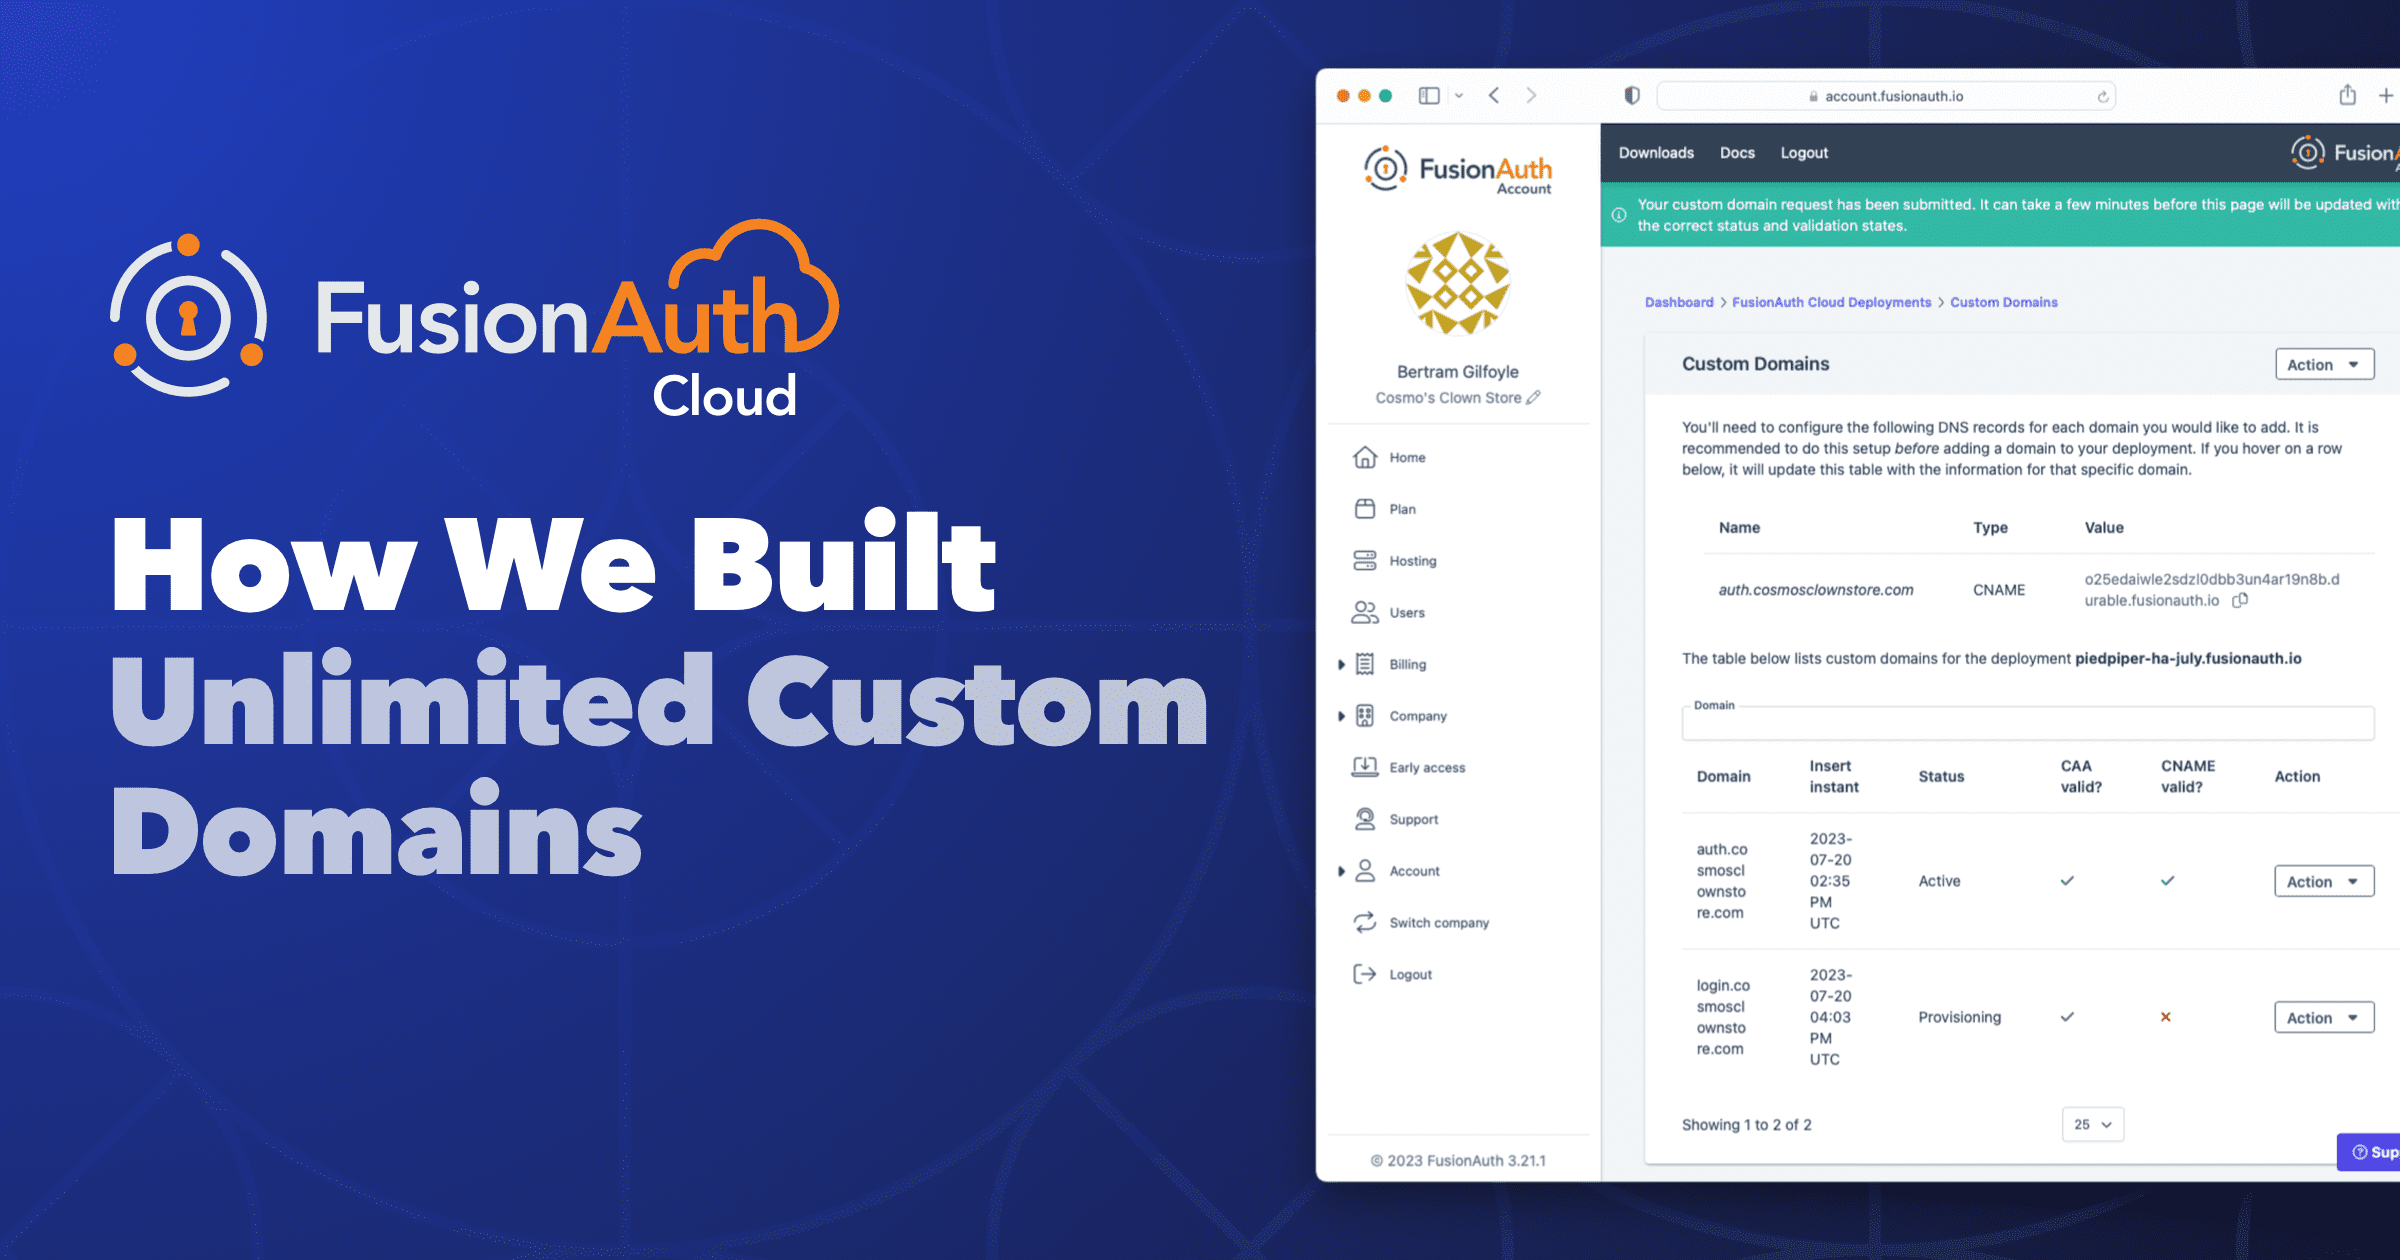
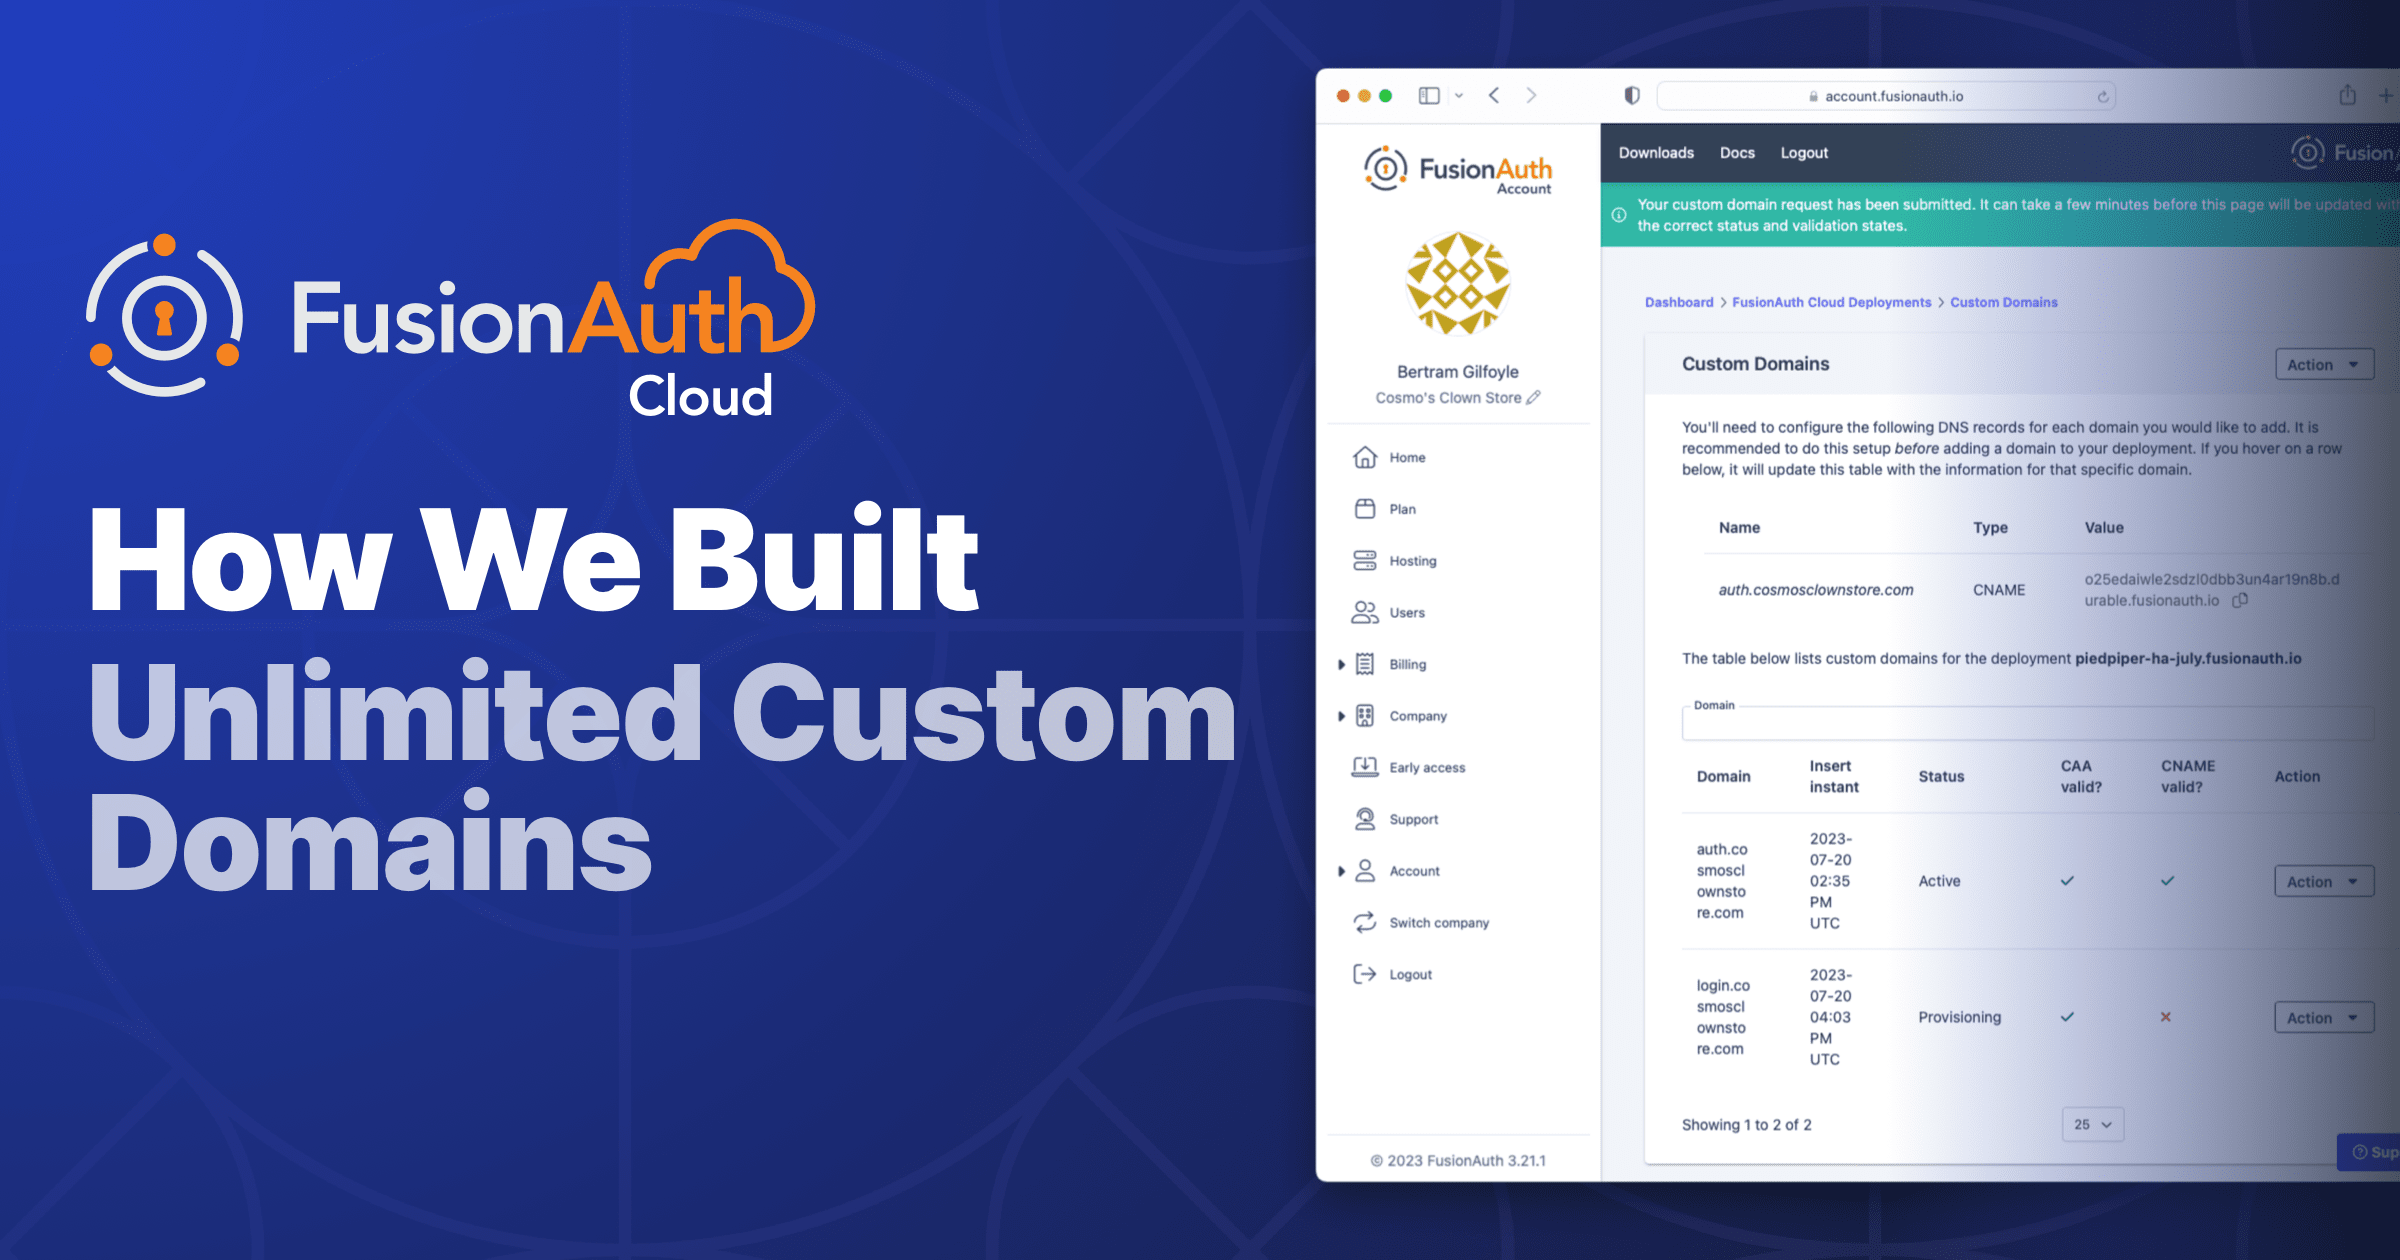
updated unlimited custom domain header style

diff --git a/astro/.astro/types.d.ts b/astro/.astro/types.d.ts
@@ -1527,6 +1527,13 @@ declare module 'astro:content' {
   collection: "blog",
   data: any
 } & { render(): Render[".mdx"] },
+"fusionauth-vc-free.mdx": {
+  id: "fusionauth-vc-free.mdx",
+  slug: "fusionauth-vc-free",
+  body: string,
+  collection: "blog",
+  data: any
+} & { render(): Render[".mdx"] },
 "fusionauth-website-how-we-do-it.mdx": {
   id: "fusionauth-website-how-we-do-it.mdx",
   slug: "fusionauth-website-how-we-do-it",
@@ -2272,6 +2279,13 @@ declare module 'astro:content' {
 "unio-saves-100k-with-fusionauth.mdx": {
   id: "unio-saves-100k-with-fusionauth.mdx",
   slug: "unio-saves-100k-with-fusionauth",
+  body: string,
+  collection: "blog",
+  data: any
+} & { render(): Render[".mdx"] },
+"unlimited-domains-fusionauth.mdx": {
+  id: "unlimited-domains-fusionauth.mdx",
+  slug: "unlimited-domains-fusionauth",
   body: string,
   collection: "blog",
   data: any
